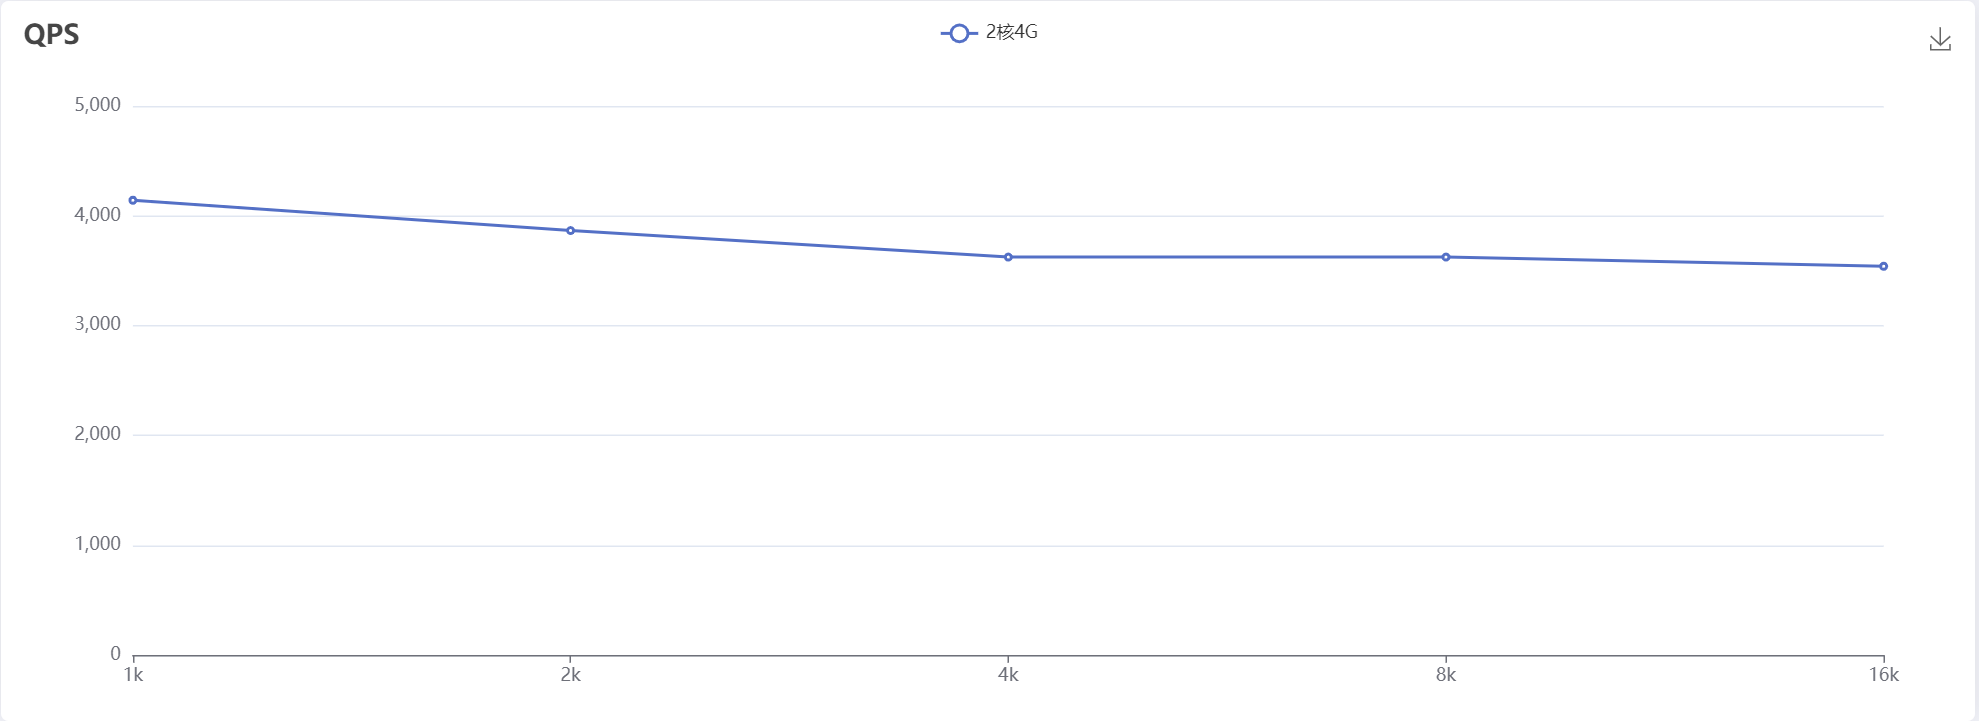
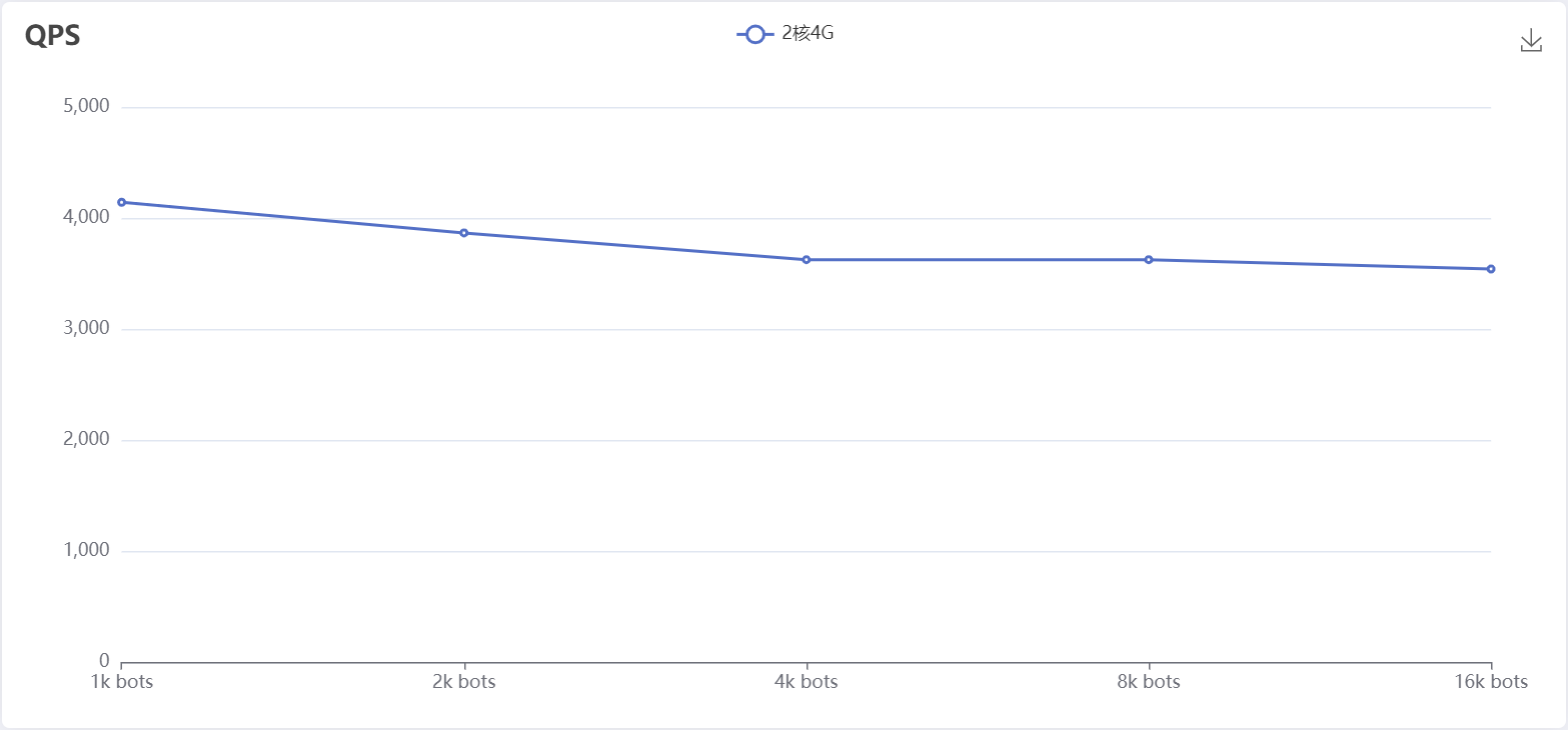
doc : update

diff --git a/README.md b/README.md
@@ -3,23 +3,30 @@
 > Gobot 是一个支持`可视化`的机器人编辑平台，它依据编辑出来的`行为树`文件进行驱动，同时支持挂接 `lua` 脚本节点 ，用于执行具体的逻辑；
 
 ---
+# v0.1.8
 
-## 处理什么问题
+### 用来解决那些问题
 
-#### `状态管理`
-> 当前市面上绝大部分的测试工具都是基于单条API进行测试的，但是我们的业务场景（尤其是游戏和社交）的API会依赖各种状态，例如社交中想要测试一些行为必须先是好友关系，例如游戏中想要进入战斗必须要有编队信息等等；gobot 的整个生命周期都拥有一个全局的状态管理（meta）数据结构，机器人的每个逻辑节点都可以对这个结构进行操作。因此我们可以使用一个bot对应用的一个系统或是整体进行拟人化的测试
+* **状态管理**
+> 当前市面上绝大部分的测试工具都是基于单条API进行测试的，但是我们同样也有一些API会依赖各种状态，例如社交中想要测试一些行为必须先是好友关系，例如游戏中想要进入战斗必须要有编队信息等等，gobot 拥有完整的生命周期我们可以在不同的节点（测试）上，保留和使用各种状态信息。
 
-#### `降低使用门槛` 
-> 在定制AI逻辑的时候，首先我们想到的是使用代码（或者脚本）进行控制，这会让使用的门槛相对有些高；在 gobot 中我们可以使用界面化的工具（行为树编辑器）对机器人进行流程上的编辑，避免了手写相关控制代码，在脚本层我们也无需关注过多的代码逻辑，只需要实现当前节点的逻辑控制代码即可（还有配套的模板代码和一些辅助功能模块
+* **降低使用门槛** 
+> 在定制AI逻辑的时候，首先我们想到的是使用代码（或者脚本）进行控制，这会让使用的门槛相对有些高；在 gobot 中我们可以使用界面化的工具`行为树编辑器`对机器人进行流程上的编辑，避免了手写相关控制代码。
 
-#### `提供API接口`
-> 由于现代的服务器体系中引入了大量的 CI/CD 流程，在使用 gobot 的时候，我们也可以方便的在流程中插入 gobot 的API 调用，来进行集成测试，在完成版本部署后执行一次机器人（调用http请求发起自己指定机器人的阻塞执行）然后观察是否有问题（看逻辑是否正常通过，数据在各种断言节点是否和预期一致）
+* **提供API接口**
+> 由于现代的服务器体系中引入了大量的 CI/CD 流程，在使用 gobot 的时候，我们也可以方便的在流程中插入API调用`post /bot.run -d '{"Name":"某个机器人"}'`来进行集成测试。
 
-### 工具的构成
 
-|编辑器（editor|驱动端（driver|脚本层|
-|-|-|-|
-|编辑，调试，管理，查看 Bot|提供Bot的运行时以及脚本层的支撑|通过脚本接口执行Bot的具体逻辑|
+
+### 拥有那些特性
+1. 使用行为树 + 脚本控制机器人的执行逻辑
+2. 图形化的编辑，调试功能
+3. 使用 tag + filter 管理和查找仓库中的机器人
+4. 可以进行压力测试（并发驱动机器人
+5. 驱动端提供api调用
+6. 提供报告查看页（机器人调用的api统计信息
+
+
 
 ### 客户端支持
 ||Web|Windows|Mac|Android|IOS|
@@ -28,8 +35,12 @@
 |x64|✅|✅|✅|❌|❌|
 |arm|✅|❌|✅|❌|❌|
 
+
+
 ### 界面预览
 ![img](/res/preview.png)
+
+
 
 ### 性能预览
 
@@ -39,4 +50,4 @@
 
 > 报告概览
 
-![img](/res/gobot_qps_report.png)
+![img](/res/report.png)

diff --git a/_sidebar.md b/_sidebar.md
@@ -3,15 +3,16 @@
 * [Introduction (简介](/README.md)
 * [Install (安装](/zh-cn/install.md)
 * [Hello, gobot](/zh-cn/hello.md)
-* [编辑器](/zh-cn/edit/README.md)
-    * [编辑&调试页](/zh-cn/edit/edit.md)
-    * [管理页](/zh-cn/edit/home.md)
-    * [运行时状态页](/zh-cn/edit/running.md)
-    * [报告页](/zh-cn/edit/report.md)
-    * [配置页](/zh-cn/edit/config.md)
-* [驱动端](/zh-cn/driver/README.md)
-    * [API列表](/zh-cn/driver/api.md)
-* [脚本层](/zh-cn/script/README.md)
+* [界面元素介绍](/zh-cn/view/README.md)
+    * [编辑&调试页 *](/zh-cn/view/edit.md)
+    * [管理页](/zh-cn/view/home.md)
+    * [报告页](/zh-cn/view/report.md)
+    * [配置页](/zh-cn/view/config.md)
+* [操作逻辑介绍](/zh-cn/oper/README.md)
+    * [如何进行编辑&调试 *](/zh-cn/oper/Edit.md)
+    * [如何分析报告](/zh-cn/oper/Report.md)
+* [API列表](/zh-cn/driver/api.md)
+* [脚本接口](/zh-cn/script/README.md)
     * [Meta *](/zh-cn/script/meta.md)
     * [Http](/zh-cn/script/http.md)
     * [Protobuf](/zh-cn/script/protobuf.md)

diff --git a/zh-cn/oper/Report.md b/zh-cn/oper/Report.md
@@ -1,0 +1,20 @@
+# 报告分析
+
+![img](../../res/report.png)
+
+### 怎样生成一份测试报告
+
+1. 切换到主页(Home  
+    1. 选取你想要测试的机器人
+    2. 在 Number of runs 项中填入想要驱动的机器人数量
+    3. 点击运行
+2. 在运行时中查看并行机器人的运行信息
+3. 在完成全部的运行后切换到 Report 页
+
+### 报告中的指标
+
+* TPS - 性能测试指标（每秒事务处理数量
+* avg_request_time_ms - http请求平均消耗时间
+    > 这个选项下面的视图会按请求的消耗时间排序列举出来（消耗越大视图占比越大
+* request_times - http请求累计次数
+    > 这个选项下面的视图会按请求的次数排序列举出来（请求次数越多视图占比越大

diff --git a/zh-cn/view/home.md b/zh-cn/view/home.md
@@ -1,0 +1,15 @@
+# Home (行为树文件管理页
+> Bot（行为树）管理
+
+![img](../../res/home.png)
+
+1. 过滤器 ------- 通过`tag`的过滤`筛选`出想要的bot列表
+2. Run ---------- 运行`选中`的bot
+3. Load --------- 将第一个被选中的bot加载到本地，并跳转到edit页
+4. Delete ------- 删除`选中`的bot
+5. Download --- 下载`选中`bot的行为文件
+6. 上传 --------- 拖拽或点击文件到上传区域中，将bot的行为文件上传到后台
+7. NewTag ------ 为bot创建一个新的标签
+8. Checkboox --- 将bot设置为选中的状态
+9. 运行数量 ------ 设置运行该bot的数量
+10. Status --------- bot被运行后返回的状态码 `未知`灰色 `失败`红色 `成功`绿色

diff --git a/zh-cn/view/config.md b/zh-cn/view/config.md
@@ -1,0 +1,16 @@
+# 配置面板
+
+![img](../../res/config.png)
+
+### 区域介绍
+1. 连接到服务器的地址（驱动端
+2. 设置代码编辑窗口风格
+3. 模板代码设置区域
+    * 模板代码可以方便的预制你想要的逻辑
+    * 应用模板会保存到后台，以便其他用户和电脑使用
+
+* Global
+    > 全局脚本模板，在这里可以设置一些全局可用的常量 例如`目标服务器地址`
+
+* HTTP
+    > 预制的 HTTP 节点模板，在Edit页中拖动一个 HTTP 节点到机器人中，这个节点会默认使用这份代码；

diff --git a/zh-cn/view/report.md b/zh-cn/view/report.md
@@ -1,0 +1,17 @@
+# 报告页 (Report
+
+![img](../../res/report.png)
+
+
+### Table
+* 报告时间 - 报告的产生时间
+* TPS - 性能测试指标（每秒事务处理数量
+* 运行时间 - 机器人总计运行的时间
+* 机器人数量 - 在测试期间总共运行的机器人数量
+* 请求次数 - 在机器人运行过程中发起的http请求总计次数
+* 错误次数 - 在机器人运行过程中遇到的错误次数
+
+### Chart
+> 点击可切换不同的视图
+* avg_request_time_ms - http请求平均消耗时间
+* request_times - http请求累计次数

diff --git a/zh-cn/view/edit.md b/zh-cn/view/edit.md
@@ -1,0 +1,17 @@
+# Edit (编辑页
+
+> 编辑行为树的视窗
+
+![img](../../res/edit_preview.png)
+
+### 快捷键
+* `ctrl + z` - 撤销上一次的动作
+* `del` - 删除选中的节点
+
+### 区域介绍
+1. 节点区域 
+2. 编辑区域
+3. 节点属性区域
+4. 节点返回值 & 错误提示区域
+5. Meta数据展示区域
+

diff --git a/zh-cn/install.md b/zh-cn/install.md
@@ -1,5 +1,9 @@
 # 安装
 
+### 本地运行
+1. 在 release 页下载对应的客户端版本
+2. 在 release 页下载对应的服务器版本
+3. 启动服务器
 
 ### 通过 docker-compose
 1. 安装 docker-compose

diff --git a/zh-cn/oper/Edit.md b/zh-cn/oper/Edit.md
@@ -1,0 +1,3 @@
+# 编辑&调试
+
+![img](../../res/edit_preview.png)

diff --git a/zh-cn/oper/README.md b/zh-cn/oper/README.md
@@ -1,0 +1,1 @@
+# 操作逻辑介绍

diff --git a/zh-cn/view/README.md b/zh-cn/view/README.md
@@ -1,0 +1,1 @@
+# 界面元素介绍
